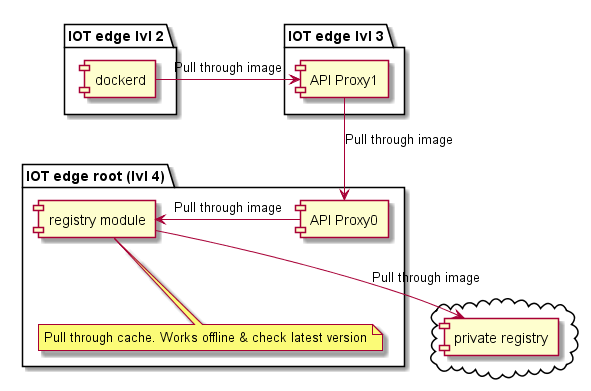
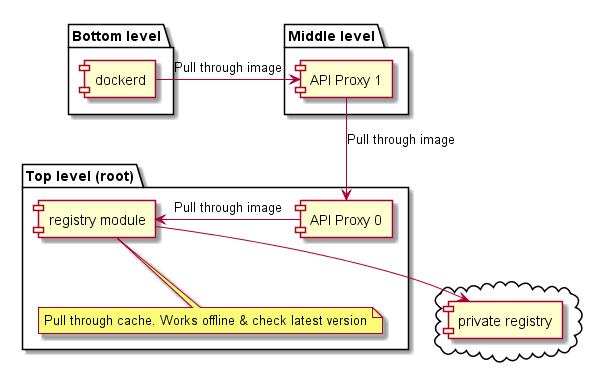
API proxy doc update (#3672)
* API proxy doc update

* Change name

* module name

Changed region(s): [[0.0305, 0.0588, 1.0, 0.9706]]

diff --git a/edge-modules/api-proxy-module/src/monitors/config_monitor.rs b/edge-modules/api-proxy-module/src/monitors/config_monitor.rs
@@ -18,7 +18,7 @@ const PROXY_CONFIG_TAG: &str = "proxy_config";
 const PROXY_CONFIG_PATH_RAW: &str = "/app/nginx_default_config.conf";
 const PROXY_CONFIG_PATH_PARSED: &str = "/app/nginx_config.conf";
 const PROXY_CONFIG_ENV_VAR_LIST: &str = "NGINX_CONFIG_ENV_VAR_LIST";
-const PROXY_CONFIG_DEFAULT_VARS_LIST:&str = "NGINX_DEFAULT_PORT,BLOB_UPLOAD_ROUTE_ADDRESS,DOCKER_REQUEST_ROUTE_ADDRESS,NGINX_ROOT,IOTEDGE_PARENTHOSTNAME";
+const PROXY_CONFIG_DEFAULT_VARS_LIST:&str = "NGINX_DEFAULT_PORT,BLOB_UPLOAD_ROUTE_ADDRESS,DOCKER_REQUEST_ROUTE_ADDRESS,IOTEDGE_PARENTHOSTNAME";
 
 const PROXY_CONFIG_DEFAULT_VALUES: &[(&str, &str)] = &[("NGINX_DEFAULT_PORT", "443")];
 

diff --git a/edge-modules/api-proxy-module/readme.md b/edge-modules/api-proxy-module/readme.md
@@ -107,7 +107,7 @@ First, list all the environment variables that you want to update in the `PROXY_
 
 | Environment variable  | comments |
 | ------------- |  ------------- |
-| PROXY_CONFIG_ENV_VAR_LIST | List all the variable to be replaced. By default it contains: NGINX_DEFAULT_PORT, NGINX_HAS_BLOB_MODULE, NGINX_BLOB_MODULE_NAME_ADDRESS,DOCKER_REQUEST_ROUTE_ADDRESS, NGINX_NOT_ROOT, PARENT_HOSTNAME  |
+| PROXY_CONFIG_ENV_VAR_LIST | List all the variable to be replaced. By default it contains: NGINX_DEFAULT_PORT,BLOB_UPLOAD_ROUTE_ADDRESS,DOCKER_REQUEST_ROUTE_ADDRESS,IOTEDGE_PARENTHOSTNAME  |
 
 Next, set each environment variable's value by listing them directly.
 
@@ -115,10 +115,8 @@ Next, set each environment variable's value by listing them directly.
 | ------------- |  ------------- |
 | NGINX_DEFAULT_PORT  | Changes the port Nginx listens too. If you change this option, make sure that the port you select is exposed in the dockerfile. Default is 443  |
 | DOCKER_REQUEST_ROUTE_ADDRESS | Address to route docker requests. By default it points to the parent.  |
-| NGINX_HAS_BLOB_MODULE| TBD - why is this prefix NGNIX? |
-| NGINX_BLOB_MODULE_NAME_ADDRESS | TBD - why is this prefix NGNIX? |
-| NGINX_NOT_ROOT | TBD - why is this prefix NGNIX? and what does this do? |
-| PARENT_HOSTNAME | TBD |
+| BLOB_UPLOAD_ROUTE_ADDRESS| Address to route blob registry requests. By default it points to the parent. |
+| IOTEDGE_PARENTHOSTNAME | Parent hostname |
 
 ### Update the proxy configuration dynamically
 
@@ -156,8 +154,8 @@ The configuration of the API Proxy module at the **top layer** for this scenario
 
     | Name  | Value |
     | ------------- |  ------------- |
-    |NGINX_ROOT|1|
     |DOCKER_REQUEST_ROUTE_ADDRESS|registry:5000|
+    |NGINX_DEFAULT_PORT|8000|
 
 - CreateOptions:
 
@@ -181,7 +179,7 @@ The configuration of the API Proxy module at **any lower layer** for this scenar
 
     | Name  | Value |
     | ------------- |  ------------- |
-    |DOCKER_REQUEST_ROUTE_ADDRESS|registry:5000|
+    |NGINX_DEFAULT_PORT|8000|    
 
 - CreateOptions:
 
@@ -205,8 +203,77 @@ Lastly, all the module image URIs in **any lower layer** should use the domain n
 
 ### Upload blob
 
-TBD
+This section describes how to use the [blob storage module](https://docs.microsoft.com/en-us/azure/iot-edge/how-to-deploy-blob) to [upload support bundle](https://github.com/Azure/iotedge/blob/master/doc/built-in-logs-pull.md). 
+It assumes that the blob storage module has already been deployed. Please follow this [link](https://docs.microsoft.com/en-us/azure/iot-edge/how-to-deploy-blob) for detail on how to deploy it. 
 
-### Limit the number of open ports
+>If you want to upload support bundle, currently, the only supported configuration is when the blob storage module is at the top level. To be able to upload a support bundle, a blob container needs to be created and as of now that is only possible when the blob storage module is at the top level.
 
-TBD
+
+The configuration of the API Proxy module at the **top layer** for this scenario is the following
+It assumes that a Docker registry module named `AzureBlobStorageonIoTEdge` has been deployed
+
+- Environment variables:
+
+    | Name  | Value |
+    | ------------- |  ------------- |
+    |BLOB_UPLOAD_ROUTE_ADDRESS|AzureBlobStorageonIoTEdge:11002|
+    |NGINX_DEFAULT_PORT|8000|
+
+- CreateOptions:
+
+    ```json
+    {
+        "HostConfig": {
+            "PortBindings": {
+                "8000/tcp": [
+                    {
+                        "HostPort": "8000"
+                    }
+                ]
+            }
+        }
+    }
+    ```
+
+The configuration of the API Proxy module at **any lower layer** for this scenario is the following:
+
+- Environment variables:
+
+    | Name  | Value |
+    | ------------- |  ------------- |
+    |NGINX_DEFAULT_PORT|8000|    
+
+- CreateOptions:
+
+    ```json
+    {
+        "HostConfig": {
+            "PortBindings": {
+                "8000/tcp": [
+                    {
+                        "HostPort": "8000"
+                    }
+                ]
+            }
+        }
+    }
+    ```
+
+These settings are set by default when deploying from the [Azure Marketplace](http://aka.ms/iot-edge-marketplace).
+
+To upload the support bundle and/or log file to the blob module located at the root:
+1. First create a blob container, you can use azure storage explorer for that or the rest APIs (the process is described [here](https://docs.microsoft.com/en-us/azure/iot-edge/how-to-store-data-blob))
+
+2. follow the process described at this [link](https://github.com/Azure/iotedge/blob/master/doc/built-in-logs-pull.md) to request a log/bundle upload, but replace the address of the blob storage module by `$upstream`.
+For example:  
+***UploadSupportBundle***
+```json
+{    
+    "schemaVersion": "1.0",
+    "sasUrl": "https://$upstream:8000/myBlobStorageName/myContainerName?SAS_key",
+    "since": "2d",
+    "until": "1d",
+    "edgeRuntimeOnly": false
+}
+```
+
